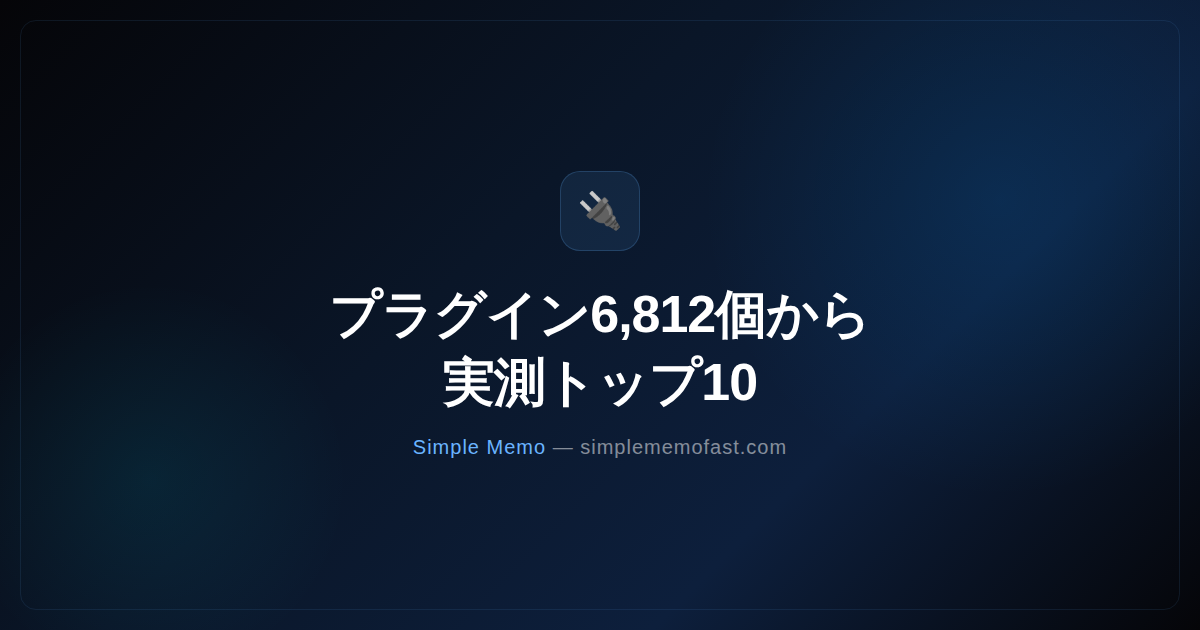
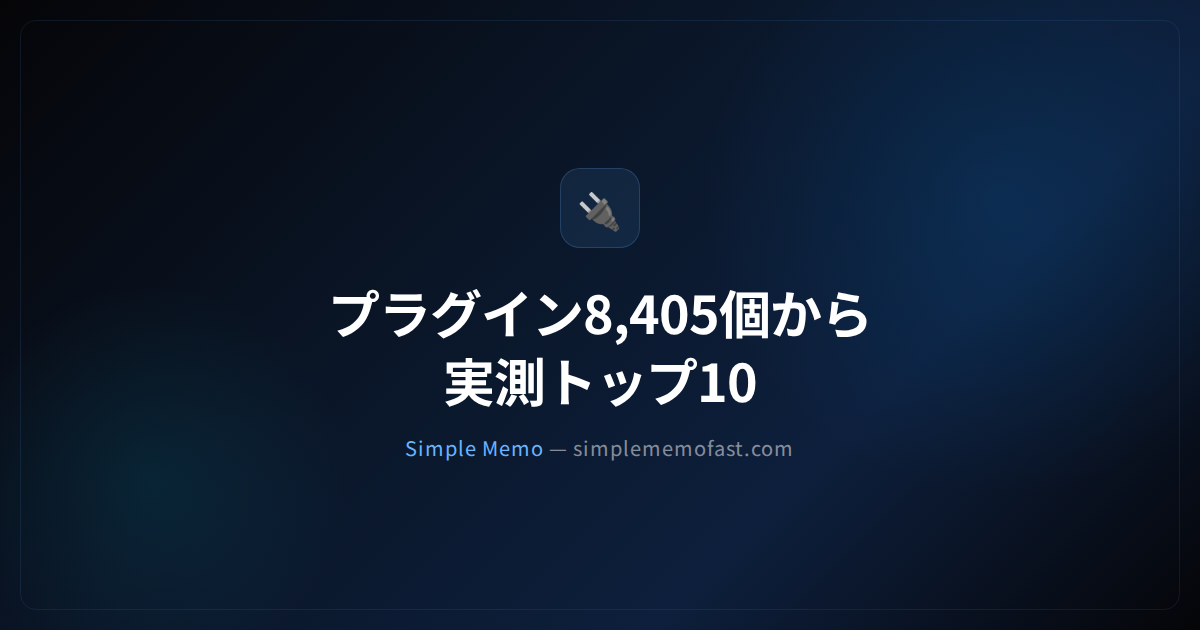
レーンC: /obsidian/plugins/ にダウンロード分布・作者の重複を追加
Obsidian公式レジストリ3ファイルを2026-10-05に再取得し、総数(8,405個/891種)
とトップ10を再計測。新規にダウンロード数の分布(中央値786件)と作者の重複
(2個以上所有1,147名が全体の41.5%)を集計して追加した。前回レーンC実施
(2026-09-04)から31日経過し、Runbook §2の優先レーン条件に該当したため選択。

価値契約 plugins-registry-c-20261005 を実装前に宣言。選定時に rank フィールド
の意味を取り違えて一度誤った候補が選ばれたため、取り下げて再宣言し、
Runbook §2-1 に仕様を追記した。

diff --git a/obsidian/plugins/index.html b/obsidian/plugins/index.html
@@ -23,13 +23,13 @@
       });
     })();
   </script>
-  <title>Obsidianプラグイン入門 — 6,812個から実測トップ10【2026】 | Obsidian連携シンプルメモ</title>
-  <meta name="description" content="Obsidianの公式プラグインレジストリを直接取得して数えたところ6,812個。さらに公式が公開するダウンロード数データで並べ替え、実際にいちばん使われている10個と、プラグインなしで足りる範囲を2026年8月21日時点でまとめました。">
+  <title>Obsidianプラグイン入門 — 8,405個から実測トップ10【2026】 | Obsidian連携シンプルメモ</title>
+  <meta name="description" content="Obsidianの公式プラグインレジストリを直接取得して数えたところ8,405個。さらに公式が公開するダウンロード数データで並べ替え、実際にいちばん使われている10個と、プラグインなしで足りる範囲を2026年10月5日時点でまとめました。">
   <meta name="theme-color" content="#070b14">
 
   <!-- OGP -->
-  <meta property="og:title" content="Obsidianプラグイン入門 — 6,812個から実測トップ10【2026】 | Obsidian連携シンプルメモ">
-  <meta property="og:description" content="公式レジストリを直接数えると6,812個。公式のダウンロード数データで並べ替えた実測トップ10と、プラグインなしで足りる範囲をまとめました。">
+  <meta property="og:title" content="Obsidianプラグイン入門 — 8,405個から実測トップ10【2026】 | Obsidian連携シンプルメモ">
+  <meta property="og:description" content="公式レジストリを直接数えると8,405個。公式のダウンロード数データで並べ替えた実測トップ10と、プラグインなしで足りる範囲をまとめました。">
   <meta property="og:type" content="article">
   <meta property="article:published_time" content="2026-08-21T00:00:00+09:00">
   <meta property="og:url" content="https://simplememofast.com/obsidian/plugins/">
@@ -42,8 +42,8 @@
   <!-- Twitter Card -->
   <meta name="twitter:card" content="summary_large_image">
   <meta name="twitter:site" content="@simplememofast">
-  <meta name="twitter:title" content="Obsidianプラグイン入門 — 6,812個から実測トップ10【2026】">
-  <meta name="twitter:description" content="公式レジストリを直接数えると6,812個。公式ダウンロード数データで並べ替えた実測トップ10をまとめました。">
+  <meta name="twitter:title" content="Obsidianプラグイン入門 — 8,405個から実測トップ10【2026】">
+  <meta name="twitter:description" content="公式レジストリを直接数えると8,405個。公式ダウンロード数データで並べ替えた実測トップ10をまとめました。">
   <meta name="twitter:image" content="https://simplememofast.com/assets/img/og/obsidian-plugins.png">
   <link rel="preconnect" href="https://analytics.ahrefs.com">
   <!-- i18n: managed by scripts/normalize_i18n_head.py -->
@@ -72,13 +72,13 @@
   </script>
 
   <!-- JSON-LD: Article -->
-  <script type="application/ld+json">{"@context":"https://schema.org","@type":"Article","@id":"https://simplememofast.com/obsidian/plugins/#article","inLanguage":"ja","headline":"Obsidianプラグイン入門 — 6,812個から実測トップ10","description":"Obsidianの公式プラグインレジストリと公式ダウンロード数データを直接取得し、総数と実際に最も使われている10個を実測した。","url":"https://simplememofast.com/obsidian/plugins/","datePublished":"2026-08-21","dateModified":"2026-09-04","author":{"@type":"Person","@id":"https://simplememofast.com/about/#person","name":"AI ATAKA","url":"https://simplememofast.com/about/"},"publisher":{"@type":"Organization","name":"Obsidian連携シンプルメモ","@id":"https://simplememofast.com/#organization","url":"https://simplememofast.com/","logo":{"@type":"ImageObject","url":"https://simplememofast.com/assets/img/app-icon-256.png","width":256,"height":256},"alternateName":["Captio式シンプルメモ","シンプルメモ","SimpleMemoFast","Simple Memo","Simple Memo - for Obsidian"]},"image":"https://simplememofast.com/assets/img/og/obsidian-plugins.png","mainEntityOfPage":{"@type":"WebPage","@id":"https://simplememofast.com/obsidian/plugins/"}}</script>
+  <script type="application/ld+json">{"@context":"https://schema.org","@type":"Article","@id":"https://simplememofast.com/obsidian/plugins/#article","inLanguage":"ja","headline":"Obsidianプラグイン入門 — 8,405個から実測トップ10","description":"Obsidianの公式プラグインレジストリと公式ダウンロード数データを直接取得し、総数と実際に最も使われている10個を実測した。","url":"https://simplememofast.com/obsidian/plugins/","datePublished":"2026-08-21","dateModified":"2026-10-05","author":{"@type":"Person","@id":"https://simplememofast.com/about/#person","name":"AI ATAKA","url":"https://simplememofast.com/about/"},"publisher":{"@type":"Organization","name":"Obsidian連携シンプルメモ","@id":"https://simplememofast.com/#organization","url":"https://simplememofast.com/","logo":{"@type":"ImageObject","url":"https://simplememofast.com/assets/img/app-icon-256.png","width":256,"height":256},"alternateName":["Captio式シンプルメモ","シンプルメモ","SimpleMemoFast","Simple Memo","Simple Memo - for Obsidian"]},"image":"https://simplememofast.com/assets/img/og/obsidian-plugins.png","mainEntityOfPage":{"@type":"WebPage","@id":"https://simplememofast.com/obsidian/plugins/"}}</script>
 
   <!-- JSON-LD: FAQPage -->
 
   <!-- JSON-LD: WebPage with Speakable -->
   <script type="application/ld+json">
-  {"@context":"https://schema.org","@type":"WebPage","@id":"https://simplememofast.com/obsidian/plugins/#webpage","inLanguage":"ja","name":"Obsidianプラグイン入門 — 6,812個から実測トップ10【2026】 | Obsidian連携シンプルメモ","url":"https://simplememofast.com/obsidian/plugins/","isPartOf":{"@id":"https://simplememofast.com/#website"}}
+  {"@context":"https://schema.org","@type":"WebPage","@id":"https://simplememofast.com/obsidian/plugins/#webpage","inLanguage":"ja","name":"Obsidianプラグイン入門 — 8,405個から実測トップ10【2026】 | Obsidian連携シンプルメモ","url":"https://simplememofast.com/obsidian/plugins/","isPartOf":{"@id":"https://simplememofast.com/#website"}}
   </script>
   <link rel="stylesheet" href="/assets/css/style.min.css?v=aa4747a0f6">
   <link rel="preload" href="/assets/fonts/NotoSansJP-Regular-subset.woff2?v=a4c50a515e" as="font" type="font/woff2" crossorigin>
@@ -281,7 +281,7 @@
   </style>
   <script src="https://analytics.ahrefs.com/analytics.js" data-key="6MwVxHQiKMs/Wl2rNBoiwQ" async></script>
   <!-- faq-schema: managed by scripts/inject_faq_schema.py -->
-  <script type="application/ld+json">{"@context":"https://schema.org","@type":"FAQPage","@id":"https://simplememofast.com/obsidian/plugins/#faq","inLanguage":"ja","mainEntity":[{"@type":"Question","name":"Obsidianのプラグインは何個ありますか？","acceptedAnswer":{"@type":"Answer","text":"2026年8月21日に公式レジストリ（GitHub上のcommunity-plugins.json）を直接取得して数えたところ6,812個でした。テーマは同じ日にcommunity-css-themes.jsonを数えて701種です。2026年8月11日の初回計測（6,571個）から10日で241個増えています。"}},{"@type":"Question","name":"最初に入れるべきプラグインはどれですか？","acceptedAnswer":{"@type":"Answer","text":"公式が公開するダウンロード数データ（community-plugin-stats.json）で並べ替えると、1位はExcalidraw（手書き図解・736万件）、2位はTemplater（テンプレート・533万件）、3位はDataview（横断検索・480万件）でした。ダウンロード数は人気の目安であり、自分の使い方に合うかは別に確認してください。"}},{"@type":"Question","name":"プラグインを入れなくても使える機能はありますか？","acceptedAnswer":{"@type":"Answer","text":"あります。実測では、Obsidian本体に最初から入っているコア機能が31個あり、既定でON 21個・OFF 10個でした（詳細は保管庫の実測ページ）。デイリーノートやグラフビューなど中核機能はコミュニティプラグインなしで動きます。"}},{"@type":"Question","name":"プラグインの登録数と実際の使われ方は一致しますか？","acceptedAnswer":{"@type":"Answer","text":"一致しません。登録数（6,812個）とダウンロード数データに実績がある件数（6,780個）はほぼ重なりますが、上位を独占しているのはごく一部です。1位のExcalidraw（736万件）は10位のIconize（218万件）の3倍以上で、分布は先頭に大きく偏っています。"}},{"@type":"Question","name":"プラグインはどこから入れますか？","acceptedAnswer":{"@type":"Answer","text":"設定の「コミュニティプラグイン」から検索して入れるのが公式の経路で、このページで数えたレジストリがその一覧の実体です。GitHubリポジトリを直接指定する手動インストールもできますが、公式レジストリの審査を経ていないため、素性が分かっているもの以外は避けるのが安全です。"}},{"@type":"Question","name":"Obsidianで「キャプチャ」に関係するプラグインはどれくらいありますか？","acceptedAnswer":{"@type":"Answer","text":"2026年8月27日に公式レジストリ6,982件の名前・説明文をキーワードで数えたところ、「capture」を名指しするものは82個（1.2%）でした。最多は「daily note」関連の133個（1.9%）です。文字列の部分一致による概算のため、正確な機能分類ではありません。"}},{"@type":"Question","name":"Obsidianのテーマはダーク/ライトどちらに対応していますか？","acceptedAnswer":{"@type":"Answer","text":"2026年9月4日に公式レジストリ（community-css-themes.json、729件）のmodesフィールドを集計したところ、両対応が491種（67.4%）で最多でした。ダーク限定は206種（28.3%）、ライト限定は32種（4.4%）にとどまります。旧形式（legacy）のまま登録されているテーマも17種（2.3%）残っています。"}}]}</script>
+  <script type="application/ld+json">{"@context":"https://schema.org","@type":"FAQPage","@id":"https://simplememofast.com/obsidian/plugins/#faq","inLanguage":"ja","mainEntity":[{"@type":"Question","name":"Obsidianのプラグインは何個ありますか？","acceptedAnswer":{"@type":"Answer","text":"2026年10月5日に公式レジストリ（GitHub上のcommunity-plugins.json）を直接取得して数えたところ8,405個でした。テーマは同じ日にcommunity-css-themes.jsonを数えて891種です。2026年8月11日の初回計測（6,571個）から55日で1,834個増えています。"}},{"@type":"Question","name":"最初に入れるべきプラグインはどれですか？","acceptedAnswer":{"@type":"Answer","text":"公式が公開するダウンロード数データ（community-plugin-stats.json）で並べ替えると、1位はExcalidraw（手書き図解・834万件）、2位はTemplater（テンプレート・581万件）、3位はDataview（横断検索・508万件）でした。ダウンロード数は人気の目安であり、自分の使い方に合うかは別に確認してください。"}},{"@type":"Question","name":"プラグインを入れなくても使える機能はありますか？","acceptedAnswer":{"@type":"Answer","text":"あります。実測では、Obsidian本体に最初から入っているコア機能が31個あり、既定でON 21個・OFF 10個でした（詳細は保管庫の実測ページ）。デイリーノートやグラフビューなど中核機能はコミュニティプラグインなしで動きます。"}},{"@type":"Question","name":"プラグインの登録数と実際の使われ方は一致しますか？","acceptedAnswer":{"@type":"Answer","text":"一致しません。登録数（8,405個）のうちダウンロード数が計測されているのは8,396個で、ダウンロード数の中央値は786件にとどまります（平均18,472件との差が示す偏り）。上位10個の合計が全ダウンロード数の26.45%を占め、1位のExcalidraw（834万件）は10位のCopilot（233万件）の3倍以上です。"}},{"@type":"Question","name":"プラグインはどこから入れますか？","acceptedAnswer":{"@type":"Answer","text":"設定の「コミュニティプラグイン」から検索して入れるのが公式の経路で、このページで数えたレジストリがその一覧の実体です。GitHubリポジトリを直接指定する手動インストールもできますが、公式レジストリの審査を経ていないため、素性が分かっているもの以外は避けるのが安全です。"}},{"@type":"Question","name":"Obsidianで「キャプチャ」に関係するプラグインはどれくらいありますか？","acceptedAnswer":{"@type":"Answer","text":"2026年8月27日に公式レジストリ6,982件の名前・説明文をキーワードで数えたところ、「capture」を名指しするものは82個（1.2%）でした。最多は「daily note」関連の133個（1.9%）です。文字列の部分一致による概算のため、正確な機能分類ではありません。"}},{"@type":"Question","name":"Obsidianのテーマはダーク/ライトどちらに対応していますか？","acceptedAnswer":{"@type":"Answer","text":"2026年10月5日に公式レジストリ（community-css-themes.json、891件）のmodesフィールドを集計したところ、両対応が632種（70.9%）で最多でした。ダーク限定は223種（25.0%）、ライト限定は36種（4.0%）です。2026年9月4日時点で17種残っていた旧形式（legacy）のテーマは0件になりました。"}},{"@type":"Question","name":"Obsidianプラグインの作者には重複がありますか？","acceptedAnswer":{"@type":"Answer","text":"あります。2026年10月5日の集計では、登録8,405個の作者はのべ6,061名ですが、2個以上のプラグインを持つ作者は1,147名（18.9%）で、その作者たちが登録全体の41.5%（3,491個）を占めます。最多はMichael Naumov氏の30個、次がJohannes Kaindl氏の29個でした。"}}]}</script>
 </head>
 <body>
   <!-- Global Navigation -->
@@ -325,7 +325,7 @@
           <span lang="ja">「プラグインが多い」だけでは選べません。このページでは、Obsidian公式のプラグインレジストリと<strong>公式が公開しているダウンロード数データ</strong>をこちらで直接取得し、<strong>総数と実際に最も使われている10個を実カウント</strong>しました。あわせて、プラグインを入れなくても済む範囲も正直に書きます。</span>
         </p>
         <p class="article-meta" style="font-size:.875rem;color:var(--text-muted);margin-top:1rem;">
-          <span lang="ja">著者: <a href="/about/" style="color:var(--accent);text-decoration:none;">AI ATAKA</a> ・ 公開: <time datetime="2026-08-21">2026年8月21日</time>・ 検証日: 2026年8月21日（公式レジストリ実カウント）・更新: 2026年8月27日（キーワード分析を追加）・2026年9月4日（テーマの明暗内訳を追加）</span>
+          <span lang="ja">著者: <a href="/about/" style="color:var(--accent);text-decoration:none;">AI ATAKA</a> ・ 公開: <time datetime="2026-08-21">2026年8月21日</time>・ 検証日: 2026年8月21日（公式レジストリ実カウント）・更新: 2026年8月27日（キーワード分析を追加）・2026年9月4日（テーマの明暗内訳を追加）・2026年10月5日（総数再計測・ダウンロード分布と作者の重複を追加）</span>
         </p>
       </div>
 
@@ -333,7 +333,7 @@
       <section class="lp-section" data-answer-block="obsidian-plugins-how-many" style="padding-top:1rem;">
         <h2 class="lp-section__title"><span lang="ja">Obsidianのプラグインは何個ありますか？最初に入れるべきは？</span></h2>
         <div lang="ja">
-          <p><strong>2026年8月21日に公式レジストリを直接数えたところ6,812個（テーマは701種）でした。</strong>公式が公開するダウンロード数データで並べ替えると、1位はExcalidraw（手書き図解・736万件）、2位はTemplater（テンプレート・533万件）、3位はDataview（ノート検索・480万件）です。</p>
+          <p><strong>2026年10月5日に公式レジストリを直接数えたところ8,405個（テーマは891種）でした。</strong>公式が公開するダウンロード数データで並べ替えると、1位はExcalidraw（手書き図解・834万件）、2位はTemplater（テンプレート・581万件）、3位はDataview（ノート検索・508万件）です。</p>
           <p>ただし数の多さは「入れるべき」の理由にはなりません。Obsidian本体には最初からコア機能が31個入っており、そこで足りる用途も少なくありません。下の実測データと、プラグインなしで足りる範囲の両方を見てから決めてください。</p>
         </div>
 
@@ -352,7 +352,7 @@
           <span lang="ja">実測 — 公式レジストリの推移</span>
         </h2>
         <p class="lp-section__lead">
-          <span lang="ja">Obsidian公式の配布元（GitHub: <code>obsidianmd/obsidian-releases</code>）が公開する <code>community-plugins.json</code> と <code>community-css-themes.json</code> を <code>raw.githubusercontent.com</code> 経由でそのつど直接取得し、配列の要素数を数えました。当サイトでの過去の計測と並べると、10日間で241個増えています。</span>
+          <span lang="ja">Obsidian公式の配布元（GitHub: <code>obsidianmd/obsidian-releases</code>）が公開する <code>community-plugins.json</code> と <code>community-css-themes.json</code> を <code>raw.githubusercontent.com</code> 経由でそのつど直接取得し、配列の要素数を数えました。初回計測（2026年8月11日）から今回までの55日間で1,834個増えています。</span>
         </p>
         <div style="overflow-x:auto">
           <table class="rt-table">
@@ -390,15 +390,21 @@
               <td data-label="Source"><span lang="ja">本ページ（初回）</span></td>
             </tr>
             <tr>
-              <th scope="row"><strong><span lang="ja">2026-09-04（今回）</span></strong></th>
-              <td data-label="Plugins"><strong>7,242</strong></td>
-              <td data-label="Themes"><strong>729</strong></td>
+              <th scope="row">2026-09-04</th>
+              <td data-label="Plugins">7,242</td>
+              <td data-label="Themes">729</td>
               <td data-label="Source"><span lang="ja">本ページ（テーマの明暗内訳を測った回）</span></td>
+            </tr>
+            <tr>
+              <th scope="row"><strong><span lang="ja">2026-10-05（今回）</span></strong></th>
+              <td data-label="Plugins"><strong>8,405</strong></td>
+              <td data-label="Themes"><strong>891</strong></td>
+              <td data-label="Source"><span lang="ja">本ページ（ダウンロード分布・作者の重複を測った回）</span></td>
             </tr>
           </tbody>
         </table>
         </div>
-        <p style="font-size:.85rem;color:var(--text-muted);line-height:1.8;"><span lang="ja">※ 「—」は当該日にテーマを計測していないことを示す（欠測を0として扱っていない）。プラグイン数は8月21日から14日間で430個（1日あたり約31個）増えています。</span></p>
+        <p style="font-size:.85rem;color:var(--text-muted);line-height:1.8;"><span lang="ja">※ 「—」は当該日にテーマを計測していないことを示す（欠測を0として扱っていない）。プラグイン数は9月4日から31日間で1,163個（1日あたり約38個）増えています。</span></p>
       </section>
 
       <!-- Download ranking -->
@@ -407,7 +413,7 @@
           <span lang="ja">実測トップ10 — 公式ダウンロード数データで並べ替え</span>
         </h2>
         <p class="lp-section__lead">
-          <span lang="ja">同じ配布元が公開する <code>community-plugin-stats.json</code>（ダウンロード数データ・6,780件収録）を取得し、<code>downloads</code> の値で並べ替えました。説明文はレジストリに登録されている公式の一行説明をそのまま引用しています。</span>
+          <span lang="ja">同じ配布元が公開する <code>community-plugin-stats.json</code>（ダウンロード数データ・2026年10月5日時点で8,414件収録）を取得し、<code>downloads</code> の値で並べ替えました。説明文はレジストリに登録されている公式の一行説明をそのまま引用しています。</span>
         </p>
         <div style="overflow-x:auto">
           <table class="rt-table">
@@ -420,21 +426,74 @@
             </tr>
           </thead>
           <tbody>
-            <tr><th scope="row">1</th><td data-label="Plugin"><strong>Excalidraw</strong><br><span style="color:var(--text-muted);font-size:.85em;">zsviczian</span></td><td data-label="Downloads">7,365,086</td><td data-label="Desc"><span lang="ja">手描きの図解ができるビジュアルPKMツール。Excalidrawの図を作成・編集</span></td></tr>
-            <tr><th scope="row">2</th><td data-label="Plugin"><strong>Templater</strong><br><span style="color:var(--text-muted);font-size:.85em;">silentvoid13</span></td><td data-label="Downloads">5,336,051</td><td data-label="Desc"><span lang="ja">動的なテンプレートを作成・利用する</span></td></tr>
-            <tr><th scope="row">3</th><td data-label="Plugin"><strong><a href="/obsidian/plugins/dataview/">Dataview</a></strong><br><span style="color:var(--text-muted);font-size:.85em;">blacksmithgu</span></td><td data-label="Downloads">4,805,635</td><td data-label="Desc"><span lang="ja">保管庫に対して高度なクエリを実行する（<a href="/obsidian/plugins/dataview/">使い方</a>）</span></td></tr>
-            <tr><th scope="row">4</th><td data-label="Plugin"><strong>Tasks</strong><br><span style="color:var(--text-muted);font-size:.85em;">obsidian-tasks-group</span></td><td data-label="Downloads">4,061,506</td><td data-label="Desc"><span lang="ja">保管庫全体のタスクを管理。期限・繰り返し・完了日・フィルタに対応</span></td></tr>
-            <tr><th scope="row">5</th><td data-label="Plugin"><strong>Advanced Tables</strong><br><span style="color:var(--text-muted);font-size:.85em;">Tony Grosinger</span></td><td data-label="Downloads">3,124,723</td><td data-label="Desc"><span lang="ja">表の移動・整形・操作を改善する</span></td></tr>
-            <tr><th scope="row">6</th><td data-label="Plugin"><strong>Git</strong><br><span style="color:var(--text-muted);font-size:.85em;">Vinzent</span></td><td data-label="Downloads">3,028,476</td><td data-label="Desc"><span lang="ja">自動バックアップ等を備えたGitバージョン管理を統合</span></td></tr>
-            <tr><th scope="row">7</th><td data-label="Plugin"><strong>Calendar</strong><br><span style="color:var(--text-muted);font-size:.85em;">Liam Cain</span></td><td data-label="Downloads">3,021,004</td><td data-label="Desc"><span lang="ja">デイリーノートをカレンダーから探索する</span></td></tr>
-            <tr><th scope="row">8</th><td data-label="Plugin"><strong>Style Settings</strong><br><span style="color:var(--text-muted);font-size:.85em;">Obsidian Community Archive</span></td><td data-label="Downloads">2,604,959</td><td data-label="Desc"><span lang="ja">テーマ・プラグイン・スニペットのCSS変数を調整する</span></td></tr>
-            <tr><th scope="row">9</th><td data-label="Plugin"><strong>Kanban</strong><br><span style="color:var(--text-muted);font-size:.85em;">Obsidian Community Archive</span></td><td data-label="Downloads">2,568,158</td><td data-label="Desc"><span lang="ja">Markdownベースのカンバンボードを作成する</span></td></tr>
-            <tr><th scope="row">10</th><td data-label="Plugin"><strong>Iconize</strong><br><span style="color:var(--text-muted);font-size:.85em;">florianwoelki</span></td><td data-label="Downloads">2,180,911</td><td data-label="Desc"><span lang="ja">ファイル・フォルダ・テキストなどにアイコンを追加する</span></td></tr>
+            <tr><th scope="row">1</th><td data-label="Plugin"><strong>Excalidraw</strong><br><span style="color:var(--text-muted);font-size:.85em;">zsviczian</span></td><td data-label="Downloads">8,339,520</td><td data-label="Desc"><span lang="ja">手描きの図解ができるビジュアルPKMツール。Excalidrawの図を作成・編集</span></td></tr>
+            <tr><th scope="row">2</th><td data-label="Plugin"><strong>Templater</strong><br><span style="color:var(--text-muted);font-size:.85em;">silentvoid13</span></td><td data-label="Downloads">5,805,655</td><td data-label="Desc"><span lang="ja">動的なテンプレートを作成・利用する</span></td></tr>
+            <tr><th scope="row">3</th><td data-label="Plugin"><strong><a href="/obsidian/plugins/dataview/">Dataview</a></strong><br><span style="color:var(--text-muted);font-size:.85em;">blacksmithgu</span></td><td data-label="Downloads">5,082,782</td><td data-label="Desc"><span lang="ja">保管庫に対して高度なクエリを実行する（<a href="/obsidian/plugins/dataview/">使い方</a>）</span></td></tr>
+            <tr><th scope="row">4</th><td data-label="Plugin"><strong>Tasks</strong><br><span style="color:var(--text-muted);font-size:.85em;">obsidian-tasks-group</span></td><td data-label="Downloads">4,352,744</td><td data-label="Desc"><span lang="ja">保管庫全体のタスクを管理。期限・繰り返し・完了日・フィルタに対応</span></td></tr>
+            <tr><th scope="row">5</th><td data-label="Plugin"><strong>Advanced Tables</strong><br><span style="color:var(--text-muted);font-size:.85em;">Tony Grosinger</span></td><td data-label="Downloads">3,248,385</td><td data-label="Desc"><span lang="ja">表の移動・整形・操作を改善する</span></td></tr>
+            <tr><th scope="row">6</th><td data-label="Plugin"><strong>Git</strong><br><span style="color:var(--text-muted);font-size:.85em;">Vinzent</span></td><td data-label="Downloads">3,241,254</td><td data-label="Desc"><span lang="ja">自動バックアップ等を備えたGitバージョン管理を統合</span></td></tr>
+            <tr><th scope="row">7</th><td data-label="Plugin"><strong>Calendar</strong><br><span style="color:var(--text-muted);font-size:.85em;">Liam Cain</span></td><td data-label="Downloads">3,161,947</td><td data-label="Desc"><span lang="ja">デイリーノートをカレンダーから探索する</span></td></tr>
+            <tr><th scope="row">8</th><td data-label="Plugin"><strong>Style Settings</strong><br><span style="color:var(--text-muted);font-size:.85em;">Obsidian Community Archive</span></td><td data-label="Downloads">2,740,099</td><td data-label="Desc"><span lang="ja">テーマ・プラグイン・スニペットのCSS変数を調整する</span></td></tr>
+            <tr><th scope="row">9</th><td data-label="Plugin"><strong>Kanban</strong><br><span style="color:var(--text-muted);font-size:.85em;">Obsidian Community Archive</span></td><td data-label="Downloads">2,720,481</td><td data-label="Desc"><span lang="ja">Markdownベースのカンバンボードを作成する</span></td></tr>
+            <tr><th scope="row">10</th><td data-label="Plugin"><strong>Copilot</strong><br><span style="color:var(--text-muted);font-size:.85em;">Logan Yang</span></td><td data-label="Downloads">2,325,427</td><td data-label="Desc"><span lang="ja">保管庫内でAIエージェント（Claude Code・Codex・OpenCode等）を実行する</span></td></tr>
           </tbody>
         </table>
         </div>
         <p>
-          <span lang="ja">1位のExcalidraw（736万件）は10位のIconize（218万件）の3倍以上で、分布は先頭に大きく偏っています。<strong>登録数6,812個のほとんどは、上位10個ほどのダウンロード数には遠く及びません。</strong>「数が多い＝選びにくい」のではなく、実際に使われているものはかなり絞られている、というのがこの実測から言えることです。</span>
+          <span lang="ja">1位のExcalidraw（834万件）は10位のCopilot（233万件）の3倍以上で、分布は先頭に大きく偏っています。<strong>登録数8,405個のほとんどは、上位10個ほどのダウンロード数には遠く及びません。</strong>「数が多い＝選びにくい」のではなく、実際に使われているものはかなり絞られている、というのがこの実測から言えることです。8月21日時点では10位だったIconize（ファイル・アイコン付与）は、今回の計測では<a href="#download-distribution">上位10件から外れています</a>。</span>
+        </p>
+      </section>
+
+      <!-- Download distribution and author duplication -->
+      <section class="lp-section" id="download-distribution">
+        <h2 class="lp-section__title">
+          <span lang="ja">実測 — ダウンロード数の分布と作者の重複</span>
+        </h2>
+        <p class="lp-section__lead">
+          <span lang="ja">2026年10月5日、<code>community-plugins.json</code>（8,405件）の各プラグインを<code>community-plugin-stats.json</code>の<code>downloads</code>と<code>id</code>で結合し、ダウンロード数が記録されている8,396件の分布と、各プラグインの<code>author</code>フィールドの重複を集計しました。</span>
+        </p>
+        <div style="overflow-x:auto">
+          <table class="rt-table">
+          <thead>
+            <tr>
+              <th scope="col"><span lang="ja">指標</span></th>
+              <th scope="col"><span lang="ja">値</span></th>
+            </tr>
+          </thead>
+          <tbody>
+            <tr><th scope="row"><span lang="ja">ダウンロード数の中央値</span></th><td data-label="Value">786<span lang="ja">件</span></td></tr>
+            <tr><th scope="row"><span lang="ja">ダウンロード数の平均値</span></th><td data-label="Value">18,472<span lang="ja">件</span></td></tr>
+            <tr><th scope="row"><span lang="ja">上位10個が占める総ダウンロード数の割合</span></th><td data-label="Value">26.45%</td></tr>
+            <tr><th scope="row"><span lang="ja">ダウンロード数100件未満のプラグイン</span></th><td data-label="Value">1,239<span lang="ja">個（14.8%）</span></td></tr>
+            <tr><th scope="row"><span lang="ja">登録されている作者数（のべ）</span></th><td data-label="Value">6,061<span lang="ja">名</span></td></tr>
+            <tr><th scope="row"><span lang="ja">2個以上のプラグインを持つ作者</span></th><td data-label="Value">1,147<span lang="ja">名（18.9%）</span></td></tr>
+            <tr><th scope="row"><span lang="ja">その作者たちが持つプラグインの合計</span></th><td data-label="Value">3,491<span lang="ja">個（全体の41.5%）</span></td></tr>
+          </tbody>
+        </table>
+        </div>
+        <p class="lp-section__lead" style="margin-top:.75rem;">
+          <span lang="ja">プラグイン数のもっとも多い作者トップ5</span>
+        </p>
+        <div style="overflow-x:auto">
+          <table class="rt-table">
+          <thead>
+            <tr>
+              <th scope="col">#</th>
+              <th scope="col"><span lang="ja">作者</span></th>
+              <th scope="col"><span lang="ja">登録プラグイン数</span></th>
+            </tr>
+          </thead>
+          <tbody>
+            <tr><th scope="row">1</th><td data-label="Author">Michael Naumov</td><td data-label="Count">30</td></tr>
+            <tr><th scope="row">2</th><td data-label="Author">Johannes Kaindl</td><td data-label="Count">29</td></tr>
+            <tr><th scope="row">3</th><td data-label="Author">Viggo Meesters</td><td data-label="Count">26</td></tr>
+            <tr><th scope="row">4</th><td data-label="Author">Sébastien Dubois</td><td data-label="Count">21</td></tr>
+            <tr><th scope="row">5</th><td data-label="Author">bobstanton</td><td data-label="Count">21</td></tr>
+          </tbody>
+        </table>
+        </div>
+        <p>
+          <span lang="ja">分布の偏りは上位10個のダウンロード数だけでなく、<strong>登録そのものの出し手にも同じ形で現れています。</strong>中央値（786件）は平均値（18,472件）の20分の1以下で、実際に使われているものはごく一部という前のセクションの結論と一致します。作者側では、2個以上のプラグインを公開している1,147名（全体の18.9%）が登録全体の41.5%を占め、1人で20個以上を公開している作者が5名います。<strong>これは作者の活動量を示すだけで、個々のプラグインの保守状況や品質を測ったものではありません</strong>（更新頻度やコミット履歴は今回の集計の対象外です）。</span>
         </p>
       </section>
 
@@ -476,7 +535,7 @@
           <span lang="ja">実測 — テーマのダーク/ライト対応内訳</span>
         </h2>
         <p class="lp-section__lead">
-          <span lang="ja">2026年9月4日、同じ配布元の<code>community-css-themes.json</code>（729件）を取得し、各テーマが宣言する<code>modes</code>フィールド（<code>dark</code> / <code>light</code>）を集計しました。あわせて、旧形式のCSS変数のまま登録されている<code>legacy</code>テーマの件数も数えています。</span>
+          <span lang="ja">2026年10月5日、同じ配布元の<code>community-css-themes.json</code>（891件）を取得し、各テーマが宣言する<code>modes</code>フィールド（<code>dark</code> / <code>light</code>）を集計しました。あわせて、旧形式のCSS変数のまま登録されている<code>legacy</code>テーマの件数も数えています。</span>
         </p>
         <div style="overflow-x:auto">
           <table class="rt-table">
@@ -488,15 +547,15 @@
             </tr>
           </thead>
           <tbody>
-            <tr><th scope="row"><span lang="ja">ダーク＋ライト両対応</span></th><td data-label="Themes">491</td><td data-label="Share">67.4%</td></tr>
-            <tr><th scope="row"><span lang="ja">ダーク限定</span></th><td data-label="Themes">206</td><td data-label="Share">28.3%</td></tr>
-            <tr><th scope="row"><span lang="ja">ライト限定</span></th><td data-label="Themes">32</td><td data-label="Share">4.4%</td></tr>
-            <tr><th scope="row"><span lang="ja">（内数）legacy形式</span></th><td data-label="Themes">17</td><td data-label="Share">2.3%</td></tr>
+            <tr><th scope="row"><span lang="ja">ダーク＋ライト両対応</span></th><td data-label="Themes">632</td><td data-label="Share">70.9%</td></tr>
+            <tr><th scope="row"><span lang="ja">ダーク限定</span></th><td data-label="Themes">223</td><td data-label="Share">25.0%</td></tr>
+            <tr><th scope="row"><span lang="ja">ライト限定</span></th><td data-label="Themes">36</td><td data-label="Share">4.0%</td></tr>
+            <tr><th scope="row"><span lang="ja">（内数）legacy形式</span></th><td data-label="Themes">0</td><td data-label="Share">0.0%</td></tr>
           </tbody>
         </table>
         </div>
         <p>
-          <span lang="ja">729種のうち3分の2（67.4%）はダーク・ライトの両方に対応しており、OS側のモード切り替えに追従します。単独対応はダーク限定が28.3%でライト限定（4.4%）の6倍以上あり、<strong>ライトモードだけを想定したテーマは少数派</strong>です。旧形式のまま残る17種（2.3%）は、動作はしますが最新のCSS変数セットには追随していません。</span>
+          <span lang="ja">891種のうち3分の2強（70.9%）はダーク・ライトの両方に対応しており、OS側のモード切り替えに追従します。単独対応はダーク限定が25.0%でライト限定（4.0%）の6倍以上あり、<strong>ライトモードだけを想定したテーマは少数派</strong>です。2026年9月4日時点で17種（2.3%）残っていた旧形式（legacy）テーマは、今回の計測では0件でした。すべてのテーマが最新の<code>modes</code>フィールド形式に移行したことになります。</span>
         </p>
       </section>
 
@@ -527,7 +586,7 @@
           </div>
         </div>
         <p class="lp-section__lead" style="margin-top:.5rem;">
-          <span lang="ja">一方で、手描き図解（Excalidraw）・テンプレート自動化（Templater）・横断検索（Dataview）・タスク集計（Tasks）・カンバン（Kanban）・ファイルアイコン（Iconize）はコアにない機能で、上位に来ているのはそれだけの理由があります。</span>
+          <span lang="ja">一方で、手描き図解（Excalidraw）・テンプレート自動化（Templater）・横断検索（Dataview）・タスク集計（Tasks）・カンバン（Kanban）・AIエージェント連携（Copilot）はコアにない機能で、上位に来ているのはそれだけの理由があります。</span>
         </p>
       </section>
 
@@ -560,13 +619,13 @@
         <div class="faq-item">
           <details class="faq-details">
             <summary class="faq-summary"><span lang="ja">Obsidianのプラグインは何個ありますか？</span></summary>
-            <div class="faq-answer"><span lang="ja">2026年8月21日に公式レジストリ（GitHub上の<code>community-plugins.json</code>）を直接取得して数えたところ<strong>6,812個</strong>でした。テーマは同じ日に<code>community-css-themes.json</code>を数えて<strong>701種</strong>です。2026年8月11日の初回計測（6,571個）から10日で241個増えています。</span></div>
+            <div class="faq-answer"><span lang="ja">2026年10月5日に公式レジストリ（GitHub上の<code>community-plugins.json</code>）を直接取得して数えたところ<strong>8,405個</strong>でした。テーマは同じ日に<code>community-css-themes.json</code>を数えて<strong>891種</strong>です。2026年8月11日の初回計測（6,571個）から55日で1,834個増えています。</span></div>
           </details>
         </div>
         <div class="faq-item">
           <details class="faq-details">
             <summary class="faq-summary"><span lang="ja">最初に入れるべきプラグインはどれですか？</span></summary>
-            <div class="faq-answer"><span lang="ja">公式が公開するダウンロード数データ（<code>community-plugin-stats.json</code>）で並べ替えると、1位はExcalidraw（手書き図解・736万件）、2位はTemplater（テンプレート・533万件）、3位はDataview（横断検索・480万件）でした。ダウンロード数は人気の目安であり、自分の使い方に合うかは別に確認してください。</span></div>
+            <div class="faq-answer"><span lang="ja">公式が公開するダウンロード数データ（<code>community-plugin-stats.json</code>）で並べ替えると、1位はExcalidraw（手書き図解・834万件）、2位はTemplater（テンプレート・581万件）、3位はDataview（横断検索・508万件）でした。ダウンロード数は人気の目安であり、自分の使い方に合うかは別に確認してください。</span></div>
           </details>
         </div>
         <div class="faq-item">
@@ -578,7 +637,7 @@
         <div class="faq-item">
           <details class="faq-details">
             <summary class="faq-summary"><span lang="ja">プラグインの登録数と実際の使われ方は一致しますか？</span></summary>
-            <div class="faq-answer"><span lang="ja">一致しません。登録数（6,812個）とダウンロード数データに実績がある件数（6,780個）はほぼ重なりますが、上位を独占しているのはごく一部です。1位のExcalidraw（736万件）は10位のIconize（218万件）の3倍以上で、分布は先頭に大きく偏っています。</span></div>
+            <div class="faq-answer"><span lang="ja">一致しません。登録数（8,405個）のうちダウンロード数が計測されているのは8,396個で、ダウンロード数の<strong>中央値は786件</strong>にとどまります（平均18,472件との差が偏りの大きさを示します）。上位10個の合計が全ダウンロード数の26.45%を占め、1位のExcalidraw（834万件）は10位のCopilot（233万件）の3倍以上です。</span></div>
           </details>
         </div>
         <div class="faq-item">
@@ -596,7 +655,13 @@
         <div class="faq-item">
           <details class="faq-details">
             <summary class="faq-summary"><span lang="ja">Obsidianのテーマはダーク/ライトどちらに対応していますか？</span></summary>
-            <div class="faq-answer"><span lang="ja">2026年9月4日に公式レジストリ（<code>community-css-themes.json</code>、729件）の<code>modes</code>フィールドを集計したところ、<strong>両対応が491種（67.4%）</strong>で最多でした。ダーク限定は206種（28.3%）、ライト限定は32種（4.4%）にとどまります。旧形式（legacy）のまま登録されているテーマも17種（2.3%）残っています。</span></div>
+            <div class="faq-answer"><span lang="ja">2026年10月5日に公式レジストリ（<code>community-css-themes.json</code>、891件）の<code>modes</code>フィールドを集計したところ、<strong>両対応が632種（70.9%）</strong>で最多でした。ダーク限定は223種（25.0%）、ライト限定は36種（4.0%）です。2026年9月4日時点で17種残っていた旧形式（legacy）のテーマは0件になりました。</span></div>
+          </details>
+        </div>
+        <div class="faq-item">
+          <details class="faq-details">
+            <summary class="faq-summary"><span lang="ja">Obsidianプラグインの作者には重複がありますか？</span></summary>
+            <div class="faq-answer"><span lang="ja">あります。2026年10月5日の集計では、登録8,405個の作者はのべ6,061名ですが、<strong>2個以上のプラグインを持つ作者は1,147名（18.9%）</strong>で、その作者たちが登録全体の41.5%（3,491個）を占めます。最多はMichael Naumov氏の30個、次がJohannes Kaindl氏の29個でした。活動量の集計であり、個々のプラグインの保守状況や品質を測ったものではありません。</span></div>
           </details>
         </div>
       </section>
@@ -605,7 +670,7 @@
       <section class="lp-section" style="padding-top:1rem;">
         <div class="tip-box" style="background:rgba(100,180,255,.05);border-color:rgba(100,180,255,.18);">
           <div class="tip-box__title"><span lang="ja">検証環境と検証範囲</span></div>
-          <p style="margin:0;"><span lang="ja">計測日: 2026年8月21日（総数・トップ10）／2026年8月27日（キャプチャ系キーワード分析）／2026年9月4日（総数の再計測・テーマの明暗内訳）。<code>community-plugins.json</code>・<code>community-css-themes.json</code>・<code>community-plugin-stats.json</code> の3ファイルを、Obsidian公式の配布元リポジトリ（GitHub: <code>obsidianmd/obsidian-releases</code>）から<code>raw.githubusercontent.com</code>経由でこの環境に直接取得し、要素数のカウント・ダウンロード数での並べ替え・名前と説明文のキーワード部分一致・<code>modes</code>/<code>legacy</code>フィールドの集計をスクリプトで行いました。プラグイン名・作者・説明文はレジストリの登録データをそのまま引用しています。<strong>今回もプラグイン・テーマを実際にインストールして動かす検証は行っていません</strong>（保管庫の中身の実測は<a href="/obsidian/what-is-vault/">別ページ</a>で実施済み）。この環境ではObsidian公式サイト（obsidian.md）への外部アクセスが制限されており、価格ページなど当該ドメインの一次情報は本ページの根拠に含めていません。</span></p>
+          <p style="margin:0;"><span lang="ja">計測日: 2026年8月21日（総数・トップ10）／2026年8月27日（キャプチャ系キーワード分析）／2026年9月4日（総数の再計測・テーマの明暗内訳）／2026年10月5日（総数の再計測・トップ10の再計測・ダウンロード分布と作者の重複）。<code>community-plugins.json</code>・<code>community-css-themes.json</code>・<code>community-plugin-stats.json</code> の3ファイルを、Obsidian公式の配布元リポジトリ（GitHub: <code>obsidianmd/obsidian-releases</code>）から<code>raw.githubusercontent.com</code>経由でこの環境に直接取得し、要素数のカウント・ダウンロード数での並べ替え・名前と説明文のキーワード部分一致・<code>modes</code>/<code>legacy</code>フィールドの集計・<code>downloads</code>の中央値と<code>author</code>の重複集計をスクリプトで行いました。プラグイン名・作者・説明文はレジストリの登録データをそのまま引用しています。<strong>今回もプラグイン・テーマを実際にインストールして動かす検証は行っていません</strong>（保管庫の中身の実測は<a href="/obsidian/what-is-vault/">別ページ</a>で実施済み）。作者の重複集計は公開プロフィール名の文字列一致によるもので、同名の別人や別名での複数登録は区別できていません。この環境ではObsidian公式サイト（obsidian.md）への外部アクセスが制限されており、価格ページなど当該ドメインの一次情報は本ページの根拠に含めていません。</span></p>
         </div>
       </section>
 
@@ -633,7 +698,7 @@
     <span lang="ja">参考文献・データの出典</span>
   </h2>
   <ul style="font-size:.875rem;color:var(--text-muted);list-style:decimal;padding-left:1.5rem;line-height:1.8;">
-    <li><a href="https://github.com/obsidianmd/obsidian-releases" target="_blank" rel="noopener" style="color:var(--accent);">obsidianmd/obsidian-releases（GitHub）</a> — <span lang="ja">Obsidian公式の配布元。本ページの <code>community-plugins.json</code>（6,812件）・<code>community-css-themes.json</code>（701件）・<code>community-plugin-stats.json</code>（6,780件・ダウンロード数）はすべてここから2026-08-21に直接取得。キャプチャ系キーワード分析は同ファイルを2026-08-27に再取得（6,982件）。テーマの明暗内訳は<code>community-css-themes.json</code>を2026-09-04に再取得（729件・<code>community-plugins.json</code>は同日7,242件）</span></li>
+    <li><a href="https://github.com/obsidianmd/obsidian-releases" target="_blank" rel="noopener" style="color:var(--accent);">obsidianmd/obsidian-releases（GitHub）</a> — <span lang="ja">Obsidian公式の配布元。本ページの <code>community-plugins.json</code>（6,812件）・<code>community-css-themes.json</code>（701件）・<code>community-plugin-stats.json</code>（6,780件・ダウンロード数）はすべてここから2026-08-21に直接取得。キャプチャ系キーワード分析は同ファイルを2026-08-27に再取得（6,982件）。テーマの明暗内訳は<code>community-css-themes.json</code>を2026-09-04に再取得（729件・<code>community-plugins.json</code>は同日7,242件）。ダウンロード分布と作者の重複は2026-10-05に3ファイルを再取得（<code>community-plugins.json</code> 8,405件・<code>community-css-themes.json</code> 891件・<code>community-plugin-stats.json</code> 8,414件）</span></li>
     <li><a href="/obsidian/what-is-vault/" style="color:var(--accent);">保管庫（Vault）とは（当サイト）</a> — <span lang="ja">コア機能31個（既定ON 21・OFF 10）の実測記録（2026-08-20・Obsidian 1.13.7）</span></li>
     <li><a href="/obsidian/compare/logseq/" style="color:var(--accent);">ObsidianとLogseqの比較（当サイト）</a> — <span lang="ja">2026-08-14時点のプラグイン数（6,638個）・テーマ数（691種）の実カウント</span></li>
     <li><a data-cta-variant="v1" data-cta-cluster="obsidian" data-cta-placement="bottom" href="https://apps.apple.com/jp/app/id6758438948?ppid=1408d7a4-3249-4c87-a079-e13032312579&amp;pt=128498560&amp;ct=web_obsidian_v1&amp;mt=8" target="_blank" rel="noopener" style="color:var(--accent);">Obsidian連携シンプルメモ — App Store</a> — <span lang="ja">App Storeのダウンロードページ</span></li>

diff --git a/scripts/generate-og-batch.js b/scripts/generate-og-batch.js
@@ -35,7 +35,7 @@ const IMAGES = [
   { file: 'obsidian-getting-started.png', title: 'Obsidianの始め方\n実画面でわかる入門', icon: '🚀' },
   { file: 'obsidian-compare.png', title: 'Obsidianは\n何と比較すればいい？', icon: '🧭' },
   { file: 'obsidian-what-is-vault.png', title: 'Obsidianの保管庫とは\n実体はただのフォルダ', icon: '📁' },
-  { file: 'obsidian-plugins.png', title: 'プラグイン6,812個から\n実測トップ10', icon: '🔌' },
+  { file: 'obsidian-plugins.png', title: 'プラグイン8,405個から\n実測トップ10', icon: '🔌' },
   { file: 'obsidian-plugins-dataview.png', title: 'Dataviewの使い方\nクエリ入門', icon: '🔍' },
   { file: 'obsidian-plugins-templater.png', title: 'Templaterの使い方\nデイリーノートの設定', icon: '📄' },
   { file: 'obsidian-plugins-quickadd.png', title: 'QuickAddの使い方\nInboxへ追記する設定', icon: '📝' },

diff --git a/docs/obsidian/AUTOPILOT_RUNBOOK.md b/docs/obsidian/AUTOPILOT_RUNBOOK.md
@@ -794,6 +794,7 @@ node scripts/autopilot-selfheal.mjs
 2. 候補2件以上を `/tmp/decision-candidates.json` にJSON配列で書く。各候補には `id`（英小文字・数字・ハイフン）、`run_id`、`rank`、`metric`、`predicted_delta`、`p`、`horizon_days`（1〜28）、`counterfactual: {id, reason}`、`rank_gap`、`touches`、`max_changed_lines`（最大1500）、`predicted_usd`、`lane`、`action`、`evidence_date` を含める。`touches` はワイルドカードを使わない実パス。予算上限は既存の設定を使う。
    `predicted_delta` は凍結する比較基準（null model）からの変化量。率は0〜1、件数・時間・費用は0以上に収まる予測だけを使う。比較基準が既に上限の出荷日率や、0件の未解消故障には、改善を予測する余地がない。そうした候補は選定から除外され、候補IDごとの理由が返る。
    各候補に `calibration: {snapshot_sha256, reason}` を付ける。`snapshot_sha256` は直前の `--feedback` の値をそのまま使い、`reason`（20〜2000文字）には、関連する過去の予測と実測が今回の `p`・順位の判断にどう関わるかを書く。関連する決済が0件なら、その事実と今回の根拠・不確実性を書く。結果を参照した記録だけで学習・改善の実績とは扱わない。checkoutを変えた場合は読み直す。
+   **[2026-10-05追記] `calibration.snapshot_sha256` は `--feedback` 出力の`snapshot_sha256`フィールドの値そのもの**（出力全体のsha256ではない。これで1回 `calibration snapshot is missing or stale` で落ちた）。**`rank` は数値が大きいほど優先**（`decision-review.mjs` の `choose()` が `b.rank - a.rank` の降順で並べる）。「1位=rank 1」の直感とは逆で、これで一度 rank:1 の本命候補ではなく rank:2 の対抗候補が `ranked_first` として選ばれた（誤選択は `--retire` で取り下げてrankを入れ替え、新しいIDで宣言し直した）。
 3. `node scripts/value-contracts.mjs --select /tmp/decision-candidates.json` を実行する。境界・可逆性・証拠・予算・反復の5基準と、承認済み指標・実測baseline・比較基準が通った候補だけが選択対象になる。探索が指示された回も同じ条件を通す。0件なら施策を実装せず、理由を記録する。
 4. 出力された `data/decision-intents/<id>.json` だけを**別コミットにして先にpush**する。**この時点までに宣言ファイル以外のコミットが1つでもあると `decision-ci` が落ちる**（§2 レーンFの記帳を含む。2026-09-06 に実際に落ちた）。この時点では記事やコードを編集しない。CIがコミットの順序を検査し、事前データから予測・適格性・較正の参照記録を再計算する。参照が無い・古い・後から変更された新規契約は通らない。この配線より前に宣言済みの契約は当時の形式で検証し、過去に参照記録を付け足さない。
 5. 選ばれた候補だけを実装する。契約は変更しない。範囲や予測を変えたければ、この候補を中止して新しいIDで最初から判定する。実装をpushし、`gh pr create` でPR番号を確定する。**マージを待たずに**、§5-4の記帳コマンドで宣言した `run_id`・`lane`・`action` とそのPR番号を持つ行を同じブランチへ追加する。1つの契約に複数の新しい出荷を混ぜない。
